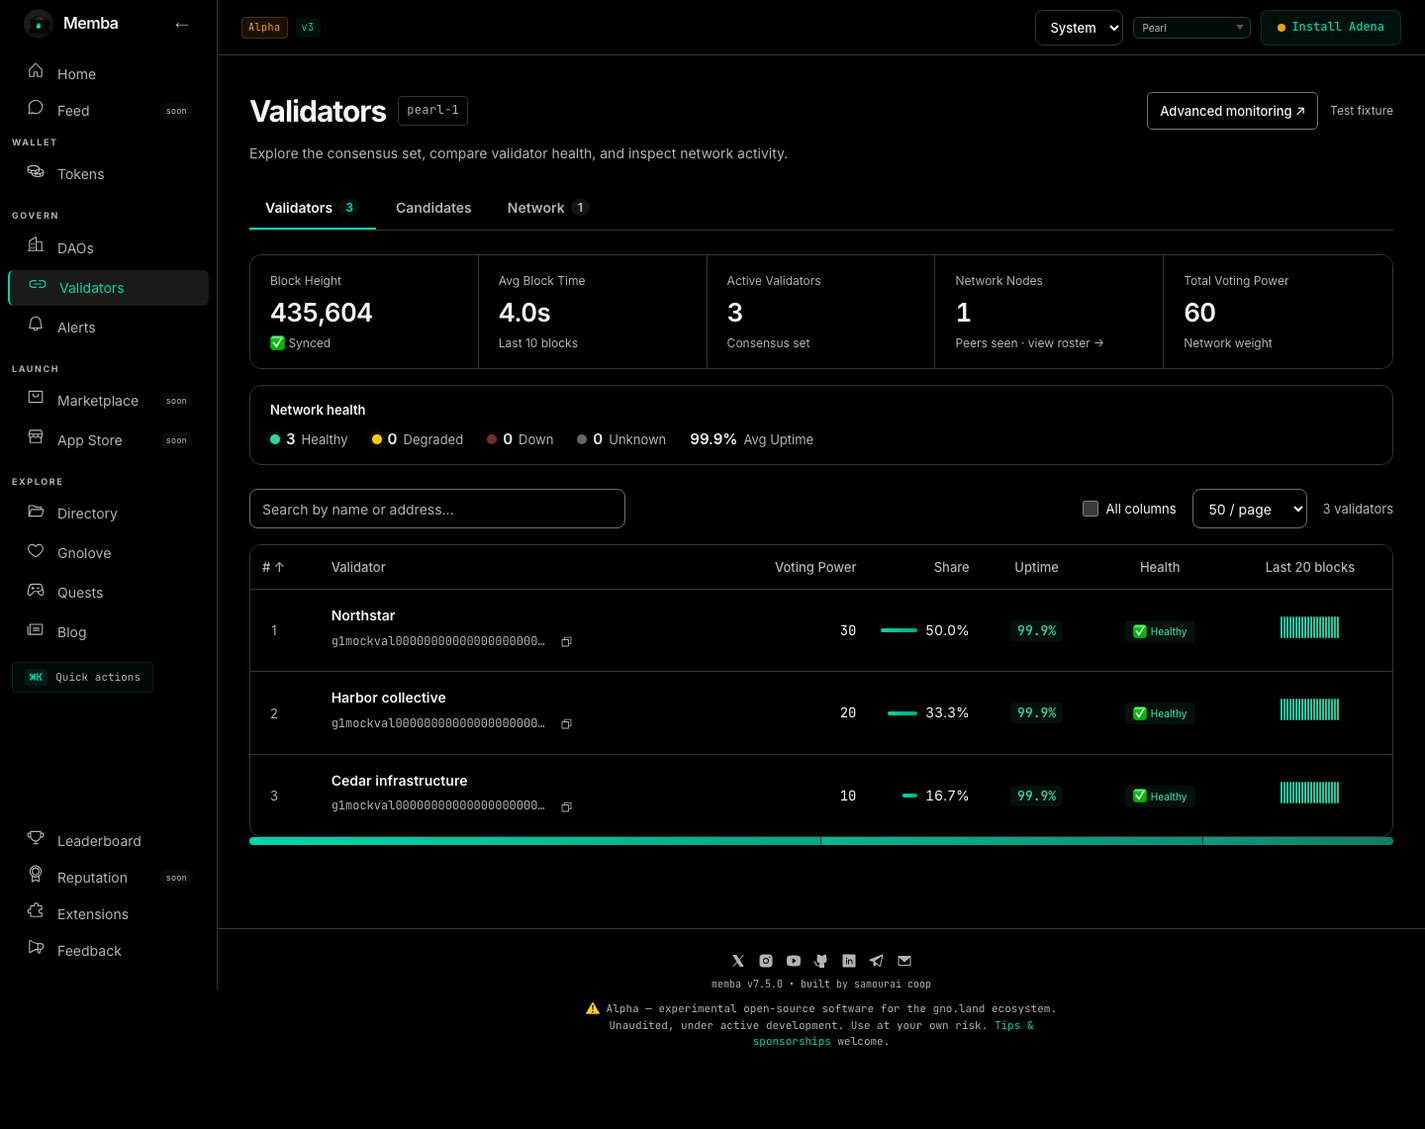
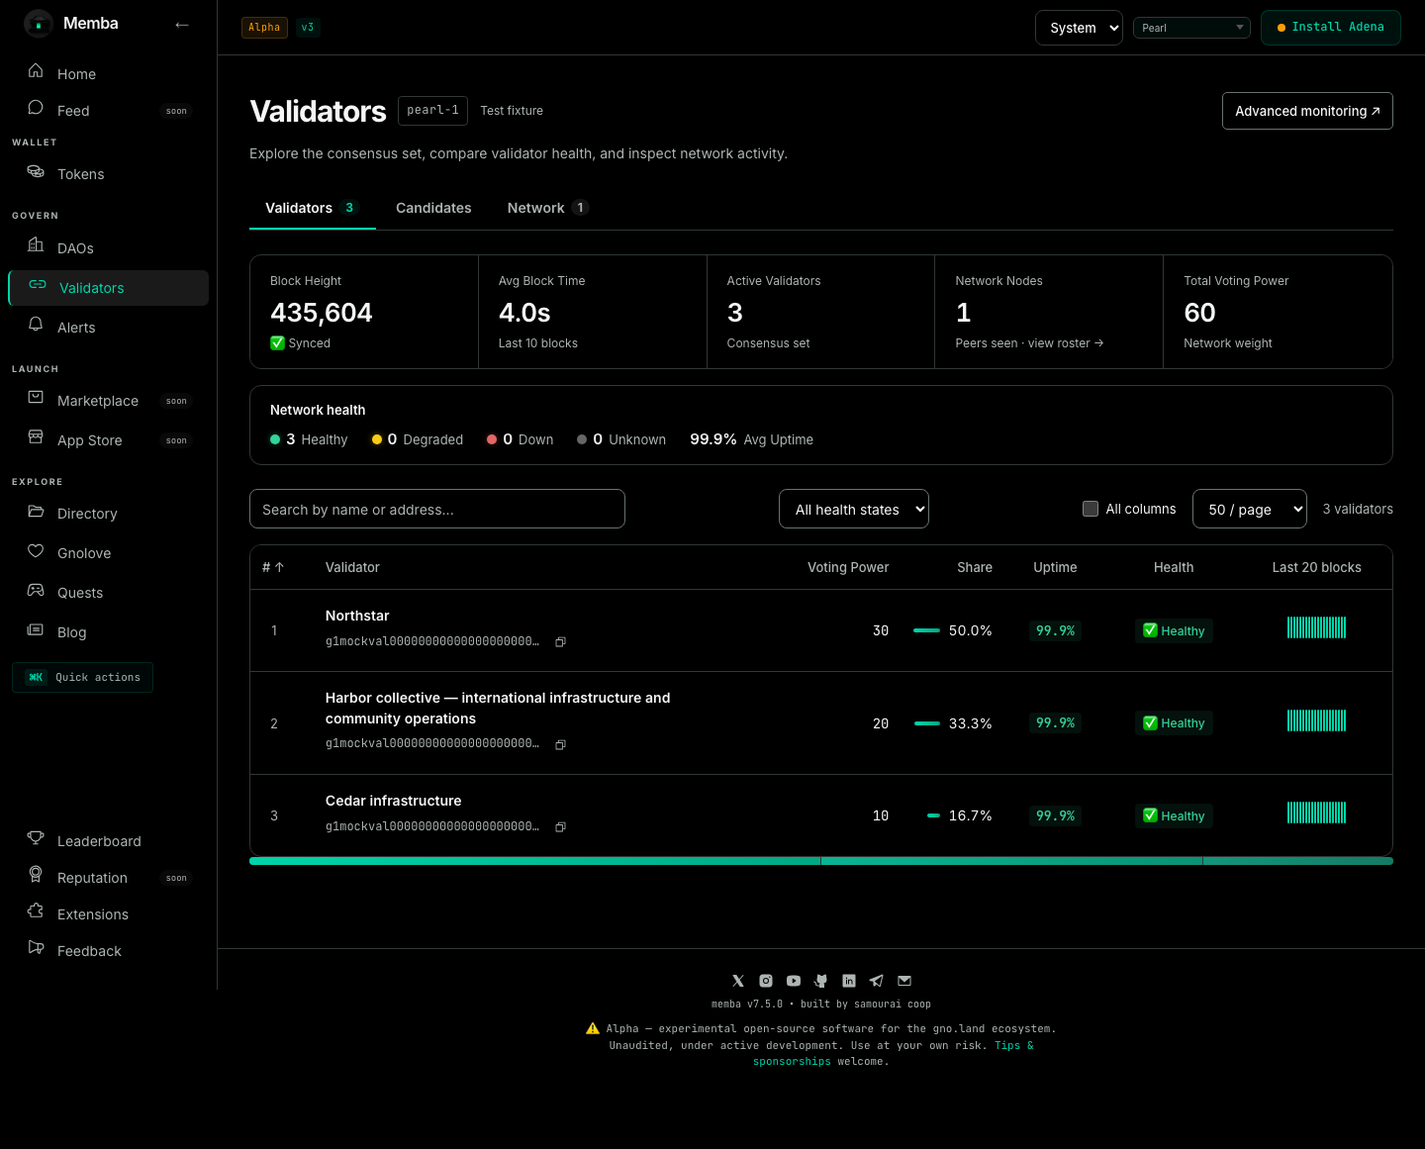
Consolidate the completed professional Validators pilot for review

diff --git a/docs/design/professional-mainnet-2026-09/IMPLEMENTATION-PLAN.md b/docs/design/professional-mainnet-2026-09/IMPLEMENTATION-PLAN.md
@@ -1,6 +1,6 @@
 # Implementation-plan proposal
 
-Status: **P0–P5 pilot authorized to begin on 2026-09-14** by the user: “OK, what’s next? Can we start proceeding the plan?” This authorizes isolated implementation and a reviewable preview. It does not authorize automatic merge, production enablement, later feature waves or logo replacement. Responsive/state details and provisional table defaults will be reviewed in the rendered pilot. See [TASK-LEDGER.md](TASK-LEDGER.md).
+Status: **P0–P5 pilot implemented for final review on 2026-09-14** by the user: “OK, what’s next? Can we start proceeding the plan?” This authorizes isolated implementation and a reviewable preview. It does not authorize automatic merge, production enablement, later feature waves or logo replacement. The user subsequently delegated autonomous completion. Responsive/state details and implemented table defaults are consolidated in [REVIEW.md](REVIEW.md). See [TASK-LEDGER.md](TASK-LEDGER.md).
 
 ## Outcome and constraints
 
@@ -18,7 +18,7 @@ Each row is a reviewable unit, not a promise that one PR can safely contain all 
 | P1 · Theme preference behavior | `frontend/src/lib/themeStore.ts`, its callers in topbar/mobile/command palette/settings, focused theme tests | Preserve resolved `light/dark` compatibility and existing explicit choices. Add System / Light / Black preference, OS-change listener only for System, storage-failure fallback and cross-tab synchronization. Keep existing palettes in this PR. | Foundation owner. Revert preference behavior with backward-compatible storage values. |
 | P2 · Scoped visual foundations and width contract | `frontend/src/components/layout/Layout.tsx`, shared shell styles in `index.css`, proposed scoped pro styles/component tokens; relevant layout tests | After P0/P1. Add route-scoped fluid layout and A light/black tokens for the pilot only. Do not replace legacy global tokens wholesale. Verify unaffected route screenshots. | Same foundation owner; exclusive ownership of shared shell/token files. Revert scoped styles or disable presentation preview. |
 | P3 · Validators presentation | `pages/Validators.tsx`, `pages/validators.css`, relevant `components/validators/*`; `Validators.table.test.tsx` and mobile tests | After P2. Compact metric strip, readable typography and default table/list, preserve candidate/node tabs, source/copy/review links, pagination, expert metrics and existing detail routes. No query/computation changes. | Validators owner, receiving a frozen component/layout contract. Revert presentation PR or preview switch. |
-| P4 · Optional table interactions | Proposed column chooser and health filter, narrow new UI components plus interaction tests | After P3. Independently approve defaults; all fields remain accessible. Keyboard controls, sorting, paging and unknown-health behavior verified. Defer saved presets and density settings unless separately approved. | Validators owner. Revert independent interaction layer; keep basic presentation. |
+| P4 · Optional table interactions | Proposed column chooser and health filter, narrow new UI components plus interaction tests | After P3. Use delegated defaults for final review; all fields remain accessible. Keyboard controls, sorting, paging and unknown-health behavior verified. Defer saved presets and density settings unless separately approved. | Validators owner. Revert independent interaction layer; keep basic presentation. |
 | P5 · Pilot validation and release proposal | Existing visual/a11y/mobile/validator suites and proof documentation | All acceptance criteria below met on pinned preview. User reviews real rendered pages, not only raster concepts. Pilot remains off in production until normal release approval. | Integration/review owner. Disable approved preview mechanism or revert bounded PRs. |
 | P6 · Navigation and shell adoption | `lib/navManifest.ts`, sidebar/mobile shell, command palette and route tests | After successful pilot and exact IA approval. Map every existing route to its new discoverable entry; keep legacy URLs/query behavior. Validate visitor/member navigation independently. | Foundation/integration owner. Revert presentation/manifest change without route migration. |
 | P7 · Feature-family waves | Bounded ownership by feature family, using approved primitives | After P5, and P6 when a wave relies on new navigation. Separate waves listed below; no one giant migration PR. | One feature owner per wave plus shared-foundation reviewer. Per-wave revert. |
@@ -51,7 +51,7 @@ Theme preference behavior in P1 is global; the new palette in P2 is scoped to th
 
 Use existing tests as a starting point: `pages/Validators.table.test.tsx`, `pages/Validators.test.tsx`, `pages/validatorThemeRegression.test.ts`, `e2e/validators.spec.ts`, `e2e/desktop-layout.spec.ts`, and mobile validator/shell tests. Check current test setup and network fixtures before execution. Add tests for new behavior and actual observed regressions; do not mirror CSS implementation in a large brittle snapshot suite.
 
-For every code PR run the repository's applicable required build/lint/test checks and disclose any baseline failure separately. This design-only round validates documents/images, not application runtime. Tests named here are planned, not claimed as run.
+For every code PR run the repository's applicable required build/lint/test checks and disclose any baseline failure separately. This is the sequence and acceptance contract. Executed checks and remaining rollout gates are recorded in the pilot handoff and REVIEW.md; named future-wave checks are not claimed as run.
 
 ## Later waves after the pilot
 
@@ -65,7 +65,7 @@ The audit inventory remains the completeness checklist. Waves can be reordered a
 
 ## Agent-compatible coordination
 
-Before implementation begins, create a small versioned task ledger in this study directory with task ID, base SHA, branch/worktree, owner, file list, dependency, status, PR and handoff. Named human or agent owners can be assigned later. Proposed statuses: ready, active, blocked on dependency, in review, complete. Record why a task is blocked and which owner can resolve it.
+Maintain the versioned task ledger in this study directory with task ID, base SHA, branch/worktree, owner, file list, dependency, status, PR and handoff. Named human or agent owners can be assigned later. Proposed statuses: ready, active, blocked on dependency, in review, complete. Record why a task is blocked and which owner can resolve it.
 
 One foundation owner serializes changes to global styles, theme store, shell and navigation manifest. A feature owner edits only the assigned route/components. If an overlapping feature session lands changes, update the baseline and adapt; never reset its work. Parallel work is appropriate only after interfaces and file ownership are stable. No background agents or automation are started by this document.
 
@@ -73,6 +73,6 @@ Each handoff includes approved decision/proof versions, changed files, full vali
 
 ## Scope and estimates
 
-Commit to P0–P5 as a bounded pilot only after plan review. Estimate each unit against the refreshed baseline and approved state frames; do not promise a completion date for the whole product redesign yet. The major sizing variables are existing feature changes, amount of table extraction required, coverage gaps in themes and mobile, and the final optional-column behavior. Branding can proceed without delaying the pilot.
+P0–P5 is the authorized bounded pilot and is now ready for review. Estimate each unit against the refreshed baseline and approved state frames; do not promise a completion date for the whole product redesign yet. The major sizing variables are existing feature changes, amount of table extraction required, coverage gaps in themes and mobile, and the final optional-column behavior. Branding can proceed without delaying the pilot.
 
 The next user review is the rendered pilot. Keep production presentation off until that review and the normal PR/release process are complete.

diff --git a/docs/design/professional-mainnet-2026-09/REVIEW.md b/docs/design/professional-mainnet-2026-09/REVIEW.md
@@ -1,0 +1,78 @@
+# Memba professional UI — final Validators pilot review
+
+**14 September 2026 · Direction A · System / Light / true Black · Memba only**
+
+The authorized Validators pilot is ready for visual review. The desktop workspace now uses the available width, the primary comparison table is readable, and mobile places the roster ahead of an expandable network summary. Health and unavailable-data states remain explicit. The implementation is isolated and off by default in production.
+
+## Review in this order
+
+1. Compare **Black and Light** below. Assess hierarchy, density and the balance of comparison versus technical detail.
+2. Look at the **mobile** and **mixed-health** screens. Search, health and sort controls remain reachable; long names and health explanations wrap.
+3. Open the [local live preview](http://127.0.0.1:5188/mainnet/validators) while its server is running. It reads real configured network data. Use All columns, health filtering, theme selection and the existing section tabs. The [handoff](https://github.com/samouraiworld/memba/blob/feat/validators-professional-pilot/docs/design/professional-mainnet-2026-09/PILOT-HANDOFF.md) contains reproducible startup commands.
+
+**All screenshots below are rendered application screens with synthetic test fixtures**, not mainnet telemetry. Each frame is labelled. The live preview may show raw addresses and unavailable monitoring metrics when no custom monitoring environment is configured; this is expected and is not replaced by fixture values.
+
+## Desktop — Black
+
+![Black Validators pilot at 1440 CSS px, synthetic fixture](assets/pilot-black-desktop.png)
+
+## Desktop — Light
+
+![Light Validators pilot at 1440 CSS px, synthetic fixture](assets/pilot-light-desktop.png)
+
+## Mixed health and long content
+
+![Black mixed healthy, degraded, down and unknown states, synthetic fixture](assets/pilot-mixed-black.png)
+
+[View the same mixed states in Light](assets/pilot-mixed-light.png).
+
+## Mobile and tablet
+
+[Open the iPhone/WebKit screen at 390 CSS px](assets/pilot-black-mobile.png) · [Open the 1024px tablet screen](assets/pilot-black-tablet.png).
+
+On phones, Network overview starts collapsed; all its information remains available. The roster uses cards, 25 items per page, and 16px native controls. At intermediate tablet widths, the table may scroll inside its labelled comparison region with validator identity pinned. At tested desktop widths 1280/1440/1920px, default columns fit without horizontal table scrolling.
+
+## Decisions made during autonomous completion
+
+| Decision | Reason |
+|---|---|
+| Seven primary columns, six when uptime is absent | Prioritize identity, voting power, share, uptime, health and recent signatures. Keep the rank reference. |
+| Grouped All columns | Preserve expert data without adding a preference editor to the first pilot. |
+| Explicit health filter, including Unknown | Support operational triage without treating unavailable information as healthy or zero. |
+| Visible non-healthy reasons | Make the status understandable without hovering. |
+| Collapsed mobile summary | Bring comparison controls and the first validator into view sooner. |
+| Ephemeral column/filter settings | Keep the first implementation reversible and avoid inventing a persistence contract. |
+
+Per-column preference editing, saved presets and density settings are deliberately deferred. These are final-review defaults, not requests for intermediate decisions.
+
+## Validation and review limits
+
+- **The full frontend unit suite, production build and lint passed on the final branch in CI.** The earlier local full run passed 5,017 tests with one existing skip; the post-refresh duplicate local unit rerun was stopped after equivalent CI verification. Final local build/lint also passed.
+- **36 preview browser cases passed** across Chromium, Firefox, iPhone/WebKit and Pixel. Widths: 320, 390, 768, 769, 1024, 1280, 1440 and 1920 CSS px.
+- Healthy, mixed-health and resolved-incident axe scans passed in Light and Black for the changed main content. Keyboard checks cover controls, native disclosure, tab arrows and horizontal table scrolling with sticky identity. Status/incident labels are 12px and pagination text is 13px, including legacy child-style overrides.
+- Tests cover a 73-validator roster, pagination, filter resets, absent monitoring/signatures, unknown values, loading, initial error/retry and retained data after a failed refresh.
+- The theme foundation's mobile guardrails passed; its desktop CI found one ambiguous test selector, now corrected to name the network picker. The affected three desktop tests pass locally, and the corrected theme branch is green in CI for Node 20/22, full Chromium E2E and mobile guardrails.
+- Compared with the refreshed theme foundation, Validators CSS grows from 4.35 to 6.20 kB gzip, route JS from 9.41 to 10.33 kB, and main JS from 119.42 to 119.54 kB. These are build sizes, not load-time benchmarks.
+- Read-only mainnet inspection confirms the updated health filter and accurate missing-monitoring message. No transactions were performed.
+
+Remote evidence: [theme foundation checks](https://github.com/samouraiworld/memba/pull/1194/checks) · [dedicated four-browser preview workflow](https://github.com/samouraiworld/memba/actions/runs/34891835958).
+
+This is not an accessibility certification. Manual screen-reader, physical-device, actual browser-zoom and connected-wallet reviews remain required before rollout. Candidates/Network preserve integration and tab navigation; their full visual/state redesign is not claimed here. The larger fixture verifies behavior, not a rendering-performance benchmark.
+
+## Change isolation
+
+| Review unit | Branch / head at handoff | Review |
+|---|---|---|
+| Theme behavior | `feat/system-theme-preference` · `d3028e88` | [Draft #1194](https://github.com/samouraiworld/memba/pull/1194) |
+| Validators pilot, stacked on theme | `feat/validators-professional-pilot` · `a3f8559b` | [Draft #1195](https://github.com/samouraiworld/memba/pull/1195) |
+| Design record and this pack | `docs/professional-design-audit` | [Draft #1186](https://github.com/samouraiworld/memba/pull/1186) |
+
+Both branches incorporate mainline `d49896a1`, including the validator page-size accessibility fix and protobuf update. The duplicate label caused by the overlap was removed. The shared Memba checkout and other sessions' worktrees were not edited. No contract, authentication, transaction, data-fetching or health-calculation changes are included. Disable/omit `VITE_ENABLE_PRO_UI` to retain the existing presentation; theme behavior is separately reversible. No merge or production activation has been performed.
+
+## What follows this review
+
+The next boundary is approval or revision of this pilot's visual treatment and defaults. Then apply the approved foundations to the exact navigation proposal and bounded feature-family waves in the [implementation plan](IMPLEMENTATION-PLAN.md). Do not expand global styles across unfinished features in one refactor.
+
+The branding direction remains **01 / Folded M**. Its production vector/monochrome/icon/share-image refinement is separate, as requested; the preview still uses the current emblem. The [branding brief](BRANDING.md) retains the selected geometry and actual-size acceptance requirements.
+
+The original [all-feature audit](AUDIT.md), [inventory](INVENTORY.md), [decisions](DECISIONS.md) and [task ledger](TASK-LEDGER.md) remain the continuity record for future sessions.

diff --git a/docs/design/professional-mainnet-2026-09/TASK-LEDGER.md b/docs/design/professional-mainnet-2026-09/TASK-LEDGER.md
@@ -1,24 +1,24 @@
 # Pilot task ledger
 
-Updated 2026-09-14. Owner: current design implementation session. Memba only. No background agents, automations, merges or deployments.
+Updated 2026-09-14. Autonomous pilot completion authorized; final review is consolidated in REVIEW.md. Owner: current design implementation session. Memba only. No background agents, automations, merges or deployments.
 
 ## Baseline and isolation
 
-- Integration base: `98b8b762` (`origin/main` fetched before starting).
+- Initial integration base: `98b8b762`; refreshed to `d49896a1` while preserving the landed validator accessibility and protobuf changes. Theme head `d3028e88`; pilot head `a3f8559b`.
 - Shared `Memba` checkout remains untouched on its existing `main` revision.
 - P1 branch: `feat/system-theme-preference`.
 - P1 worktree: `Memba-worktrees/system-theme-preference`.
 - Separate active worktree `review-main-98b8b76` has validator accessibility work. Preserve semantic rows/sort buttons and incorporate landed changes when updating the pilot base; do not modify that checkout.
-- Decisions: D-01 through D-08. Branding: 01 / Folded M selected, asset adoption separate.
+- Decisions: D-01 through D-09. Branding: 01 / Folded M selected, asset adoption separate.
 
 | Task | Status | Owned files / dependency | Handoff |
 |---|---|---|---|
 | P0 Baseline | In review | This ledger; deterministic E2E fixture and pilot handoff | Base `98b8b762`; source/user-screenshot baseline, labelled rendered fixtures and read-only live inspection recorded. Remaining state gates are explicit. |
-| P1 Theme preference | In review · [#1194](https://github.com/samouraiworld/memba/pull/1194) | `lib/themeStore.ts`, shared `ThemeSelect`, topbar/mobile/settings/palette callers, tests, changelog | Preserves palette and resolved `light/dark` contract. 5,002 unit tests, build/lint, backend/race and Buf passed. CI found iPhone clipping; narrower mobile header passes 20 local guardrails. Updated CI pending. |
+| P1 Theme preference | In review · [#1194](https://github.com/samouraiworld/memba/pull/1194) | `lib/themeStore.ts`, shared `ThemeSelect`, topbar/mobile/settings/palette callers, tests, changelog | Preserves palette and resolved `light/dark` contract. Initial local 5,002 unit tests, build/lint, backend/race and Buf passed. Refreshed branch passes full remote CI, including Node 20/22, Chromium E2E and mobile guardrails. CI found iPhone clipping; narrower mobile header passes 20 local guardrails. Desktop CI exposed an ambiguous network-picker test after adding the theme picker; the semantic selector fix passes the three affected local tests. Corrected remote CI is green; evidence is linked in REVIEW.md. |
 | P2 Scoped foundations | In review · [#1195](https://github.com/samouraiworld/memba/pull/1195) | `Layout.tsx`, scoped pro stylesheet/config predicate, optional notice style tokens | Default-off presentation flag; Validators overview allowlist only. |
-| P3 Validators presentation | In review · #1195 | `Validators.tsx`, scoped CSS, relevant validator tests | Same queries and metric derivation; responsive rendered proof. 5,016 unit tests passed; final build/lint and 16 preview browser cases passed after the inherited mobile-header correction. See the handoff for review limits. |
-| P4 Optional interactions | Partial, provisional preview · #1195 | Narrow table control surface | Grouped All columns preview implemented; defaults require review. Per-column chooser, health filter and saved presets/density deferred. |
-| P5 Pilot review | Awaiting user review | Reproducible preview, screenshots, validation evidence | Production flag stays off. Manual screen-reader, physical-device, connected-wallet and wider telemetry-state reviews remain rollout gates. |
+| P3 Validators presentation | In review · #1195 | `Validators.tsx`, scoped CSS, relevant validator tests | Same queries and metric derivation; responsive rendered proof. Initial local 5,017 unit tests passed; final CI unit/build/lint checks and 36 local preview browser cases pass. Larger status/pagination text and resolved-incident contrast verified after the mainline refresh. See the handoff for review limits. |
+| P4 Optional interactions | Implemented for final review · #1195 | Narrow table control surface | Grouped All columns plus health filter with Unknown implemented. Keyboard scrolling, filter/paging resets and missing data verified. Individual column preferences and saved presets/density deliberately deferred. |
+| P5 Pilot review | Awaiting user review | Reproducible preview, screenshots, validation evidence | Production flag stays off. Mixed health and missing-signal states verified. Manual screen-reader, physical-device, browser zoom and connected-wallet reviews remain rollout gates. |
 | P6+ / B1 adoption | Not started | Navigation, broader feature waves, production branding | Require their respective review gates. |
 
 ## Handoff requirements

diff --git a/docs/design/professional-mainnet-2026-09/DECISIONS.md b/docs/design/professional-mainnet-2026-09/DECISIONS.md
@@ -13,8 +13,19 @@ These decisions supersede the corresponding open questions and recommendations i
 | D-05 | Explore branding separately; the M direction is liked, and should be tried on black with alternatives. | Produce a separate branding study. The existing deployed emblem stays in place until a logo is selected and approved for replacement. |
 | D-06 | Validators is the preferred first design proof. | Concentrate the first implementation proposal on a read-only, data-rich area. Do not start by changing treasury/signing behavior. |
 | D-07 | **01 / Folded M** selected as the branding direction. | Refine that geometry and teal facet treatment. Monochrome/small-size adaptations derive from 01; 02 and 03 remain historical alternatives. Selection does not by itself approve production deployment. |
-
 | D-08 | User authorized proceeding with the plan on 2026-09-14. | Begin P0–P5 in isolated, bounded PRs; retain preview-only visual rollout and separate later navigation, feature-family and branding adoption. |
+
+| D-09 | User requested autonomous continuation with review only at the end. | Finish the authorized pilot, choose routine defaults and verify them without intermediate approval requests; deliver one consolidated review package. Production merge/enablement and later feature waves remain separate. |
+
+## Delegated implementation decisions
+
+- Keep grouped **All columns** instead of introducing a per-column preference editor in the first pilot.
+- Add an explicit health filter including **Unknown**. Do not interpret missing monitoring as zero, or ignore valid signing evidence.
+- Keep the mobile overview collapsed, with the complete network summary one disclosure away.
+- Show non-healthy explanations directly in desktop rows. Preserve the existing source/health engine.
+- Keep filter/column preferences ephemeral; defer saved layouts and density controls until use demonstrates a need.
+
+These are implemented defaults for final review, not new product commitments or requests for intermediate approval.
 
 ## Product interpretation
 

diff --git a/docs/design/professional-mainnet-2026-09/README.md b/docs/design/professional-mainnet-2026-09/README.md
@@ -8,7 +8,7 @@ Memba has substantial functionality, but its presentation still asks users to in
 
 ## Working pilot
 
-Implementation has started with the user's authorization. Theme foundation: [draft PR #1194](https://github.com/samouraiworld/memba/pull/1194). The [Validators pilot in draft PR #1195](https://github.com/samouraiworld/memba/pull/1195) runs behind a default-off flag on a separate branch. [Task ledger and handoff](TASK-LEDGER.md) records scope, ownership and validation.
+**Start with [the consolidated final review](REVIEW.md).** The authorized pilot has been completed for review, including autonomous interaction decisions and expanded state/browser validation. Theme foundation: [draft PR #1194](https://github.com/samouraiworld/memba/pull/1194). The [Validators pilot in draft PR #1195](https://github.com/samouraiworld/memba/pull/1195) runs behind a default-off flag on a separate branch. [Task ledger and handoff](TASK-LEDGER.md) records scope, ownership and validation.
 
 These are **rendered application screenshots using synthetic test fixtures**, labelled in each frame; they are not live mainnet telemetry.
 
